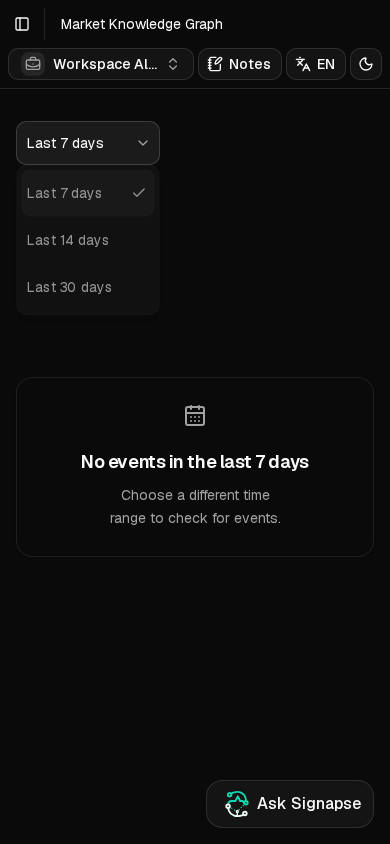
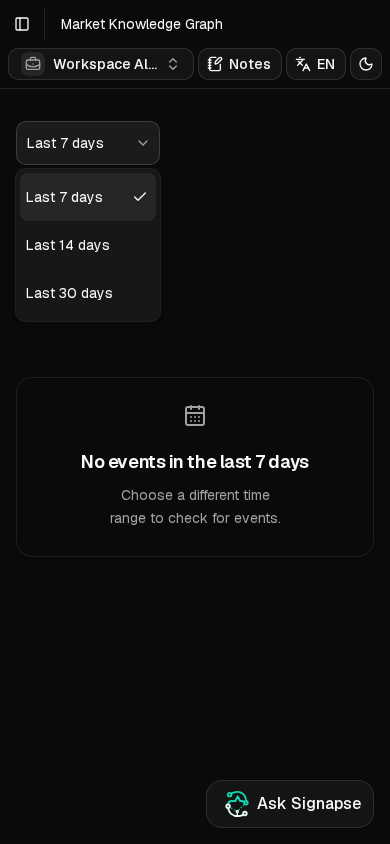
fix(SIGN-641): clear graph legend from fixed launcher

diff --git a/tests/e2e/graph-view-time-range.spec.ts b/tests/e2e/graph-view-time-range.spec.ts
@@ -25,6 +25,10 @@ async function setTheme(page: Page, theme: "Dark" | "Light") {
   await expect(page.locator("html")).toHaveClass(
     new RegExp(theme.toLowerCase())
   )
+  await page.keyboard.press("Escape")
+  await expect(
+    page.getByRole("menuitem", { name: theme, exact: true })
+  ).toBeHidden()
 }
 
 test("Graph View time range works across responsive, keyboard, touch and locale states", async ({
@@ -142,11 +146,18 @@ test("Graph View time range works across responsive, keyboard, touch and locale 
 
   await page.setViewportSize({ width: 390, height: 844 })
   await setTheme(page, "Light")
+  await page.screenshot({
+    path: "test-results/graph-time-range-empty-mobile-light-en-390x844.png",
+  })
   const triggerBox = await mobileRange.boundingBox()
   expect(triggerBox?.height).toBeGreaterThanOrEqual(44)
   await tap(page, mobileRange)
   const thirtyDayOption = page.getByRole("option", { name: "Last 30 days" })
   await expect(thirtyDayOption).toBeVisible()
+  await expect(page.locator('[data-slot="select-content"]')).toHaveCSS(
+    "opacity",
+    "1"
+  )
   const optionBox = await thirtyDayOption.boundingBox()
   expect(optionBox?.height).toBeGreaterThanOrEqual(44)
   await page.screenshot({
@@ -156,6 +167,10 @@ test("Graph View time range works across responsive, keyboard, touch and locale 
   await setTheme(page, "Dark")
   await tap(page, mobileRange)
   await expect(thirtyDayOption).toBeVisible()
+  await expect(page.locator('[data-slot="select-content"]')).toHaveCSS(
+    "opacity",
+    "1"
+  )
   await page.screenshot({
     path: "test-results/graph-time-range-empty-menu-mobile-dark-en-390x844.png",
   })

diff --git a/app/[lang]/(main)/graph-view/sigma-graph-view.tsx b/app/[lang]/(main)/graph-view/sigma-graph-view.tsx
@@ -1612,7 +1612,7 @@ export function SigmaGraphView({
       </p>
       <div
         data-graph-label-obstacle
-        className="pointer-events-none absolute inset-x-4 bottom-20 z-10 flex flex-col gap-3 min-[1440px]:right-20 min-[1440px]:bottom-4 min-[1440px]:flex-row min-[1440px]:items-end min-[1440px]:justify-between"
+        className="pointer-events-none absolute inset-x-4 bottom-20 z-10 flex flex-col gap-3 min-[1440px]:right-52 min-[1440px]:bottom-4 min-[1440px]:flex-row min-[1440px]:items-end min-[1440px]:justify-between"
       >
         <Badge variant="outline">
           <span data-testid="graph-demo-node-count">

diff --git a/docs/design/evidence/SIGN-641/README.md b/docs/design/evidence/SIGN-641/README.md
@@ -1,37 +1,42 @@
 # SIGN-641 Graph time-range render evidence
 
-These renders use the local P0 fixture. The fixture supplies synthetic Graph data and does not prove live API integration or QA acceptance.
-
-The application renders were captured from `c404d5b`. This follow-up changes only Playwright assertions and evidence files.
+These candidate renders use the local P0 fixture. Its Graph data is synthetic; it does not prove live API integration, real authorization, or QA acceptance. The UI renders and checks below were produced from the working tree for PR #144.
 
 ## Accepted design comparison
 
-The approved source is [SIGN-639](https://signapse-group.atlassian.net/browse/SIGN-639): attachment **10280**, `graph-time-filter-wide.png`, and attachment **10279**, `graph-time-filter-mobile-empty.png`. The wide comparison checks the selector beside the Graph title with data present. The mobile comparison checks the selected seven-day value and all three options above the empty state, including its calendar icon and border.
+The approved source is [SIGN-639](https://signapse-group.atlassian.net/browse/SIGN-639): attachment **10280**, `graph-time-filter-wide.png`, and attachment **10279**, `graph-time-filter-mobile-empty.png`. Both images were downloaded from Jira and inspected. The wide reference is 1520×1024 with the selector beside the Graph title and the sidebar expanded. The mobile reference is 390×844 with the three range choices above the empty state and the sidebar closed.
 
-| Source                    | Candidate render                                                                      | Viewport, state, theme and sidebar                       |
-| ------------------------- | ------------------------------------------------------------------------------------- | -------------------------------------------------------- |
-| SIGN-639 attachment 10280 | [Wide, dark, English](graph-time-range-wide-dark-en-1520x1024.png)                    | 1520×1024; populated Graph; expanded sidebar             |
-| SIGN-639 attachment 10280 | [Wide, light, Vietnamese](graph-time-range-wide-light-vi-1520x1024.png)               | 1520×1024; populated Graph; expanded sidebar             |
-| SIGN-639 attachment 10279 | [Mobile empty, dark, English](graph-time-range-empty-menu-mobile-dark-en-390x844.png) | 390×844; empty Graph; selector menu open; sidebar closed |
+| Source                    | Candidate render                                                                                   | Viewport, state, theme, sidebar                    |
+| ------------------------- | -------------------------------------------------------------------------------------------------- | -------------------------------------------------- |
+| SIGN-639 attachment 10280 | [Wide, dark, English](graph-time-range-wide-dark-en-1520x1024.png)                                 | 1520×1024; populated Graph; expanded sidebar       |
+| SIGN-639 attachment 10280 | [Wide, light, English](graph-time-range-wide-light-en-1520x1024.png)                               | 1520×1024; populated Graph; expanded sidebar       |
+| SIGN-639 attachment 10280 | [Wide, dark, Vietnamese](graph-time-range-wide-dark-vi-1520x1024.png)                              | 1520×1024; populated Graph; expanded sidebar       |
+| SIGN-639 attachment 10279 | [Mobile empty, light, English](graph-time-range-empty-mobile-light-en-390x844.png)                 | 390×844; selector closed at 7 days; sidebar closed |
+| SIGN-639 attachment 10279 | [Mobile empty, light, English, menu open](graph-time-range-empty-menu-mobile-light-en-390x844.png) | 390×844; all three choices visible; sidebar closed |
+| SIGN-639 attachment 10279 | [Mobile empty, dark, English, menu open](graph-time-range-empty-menu-mobile-dark-en-390x844.png)   | 390×844; all three choices visible; sidebar closed |
 
-The additional Vietnamese wide render is [dark mode, 1520×1024](graph-time-range-wide-dark-vi-1520x1024.png). The selector and selected seven-day value remain visible in the dark mobile empty state. The light mobile empty render is still pending; an older capture was excluded because it predates the candidate commit and does not show the current card/icon treatment.
+The selector stays beside the Graph title on wide screens and above the empty-state card on mobile. The bottom legend keeps its grouping and leaves room for the fixed Ask Signapse launcher. The current P0 run also checked 360, 390, 760×512 (effective 200% zoom), 767, 768, 1024, 1439, 1440 and 1520 CSS-pixel widths for reflow and page overflow.
+
+The [previous wide light Vietnamese render](graph-time-range-wide-light-vi-1520x1024.png) is retained as historical evidence from candidate `72bb7fc`; it predates the legend inset adjustment and is not used for the current comparison.
 
 ## Producer contract
 
-Fetched `https://dev-api.signapse.cloud/v3/api-docs` for dev at 2026-11-18 06:28 UTC. `x-build-revision` was `7d666dead7544a46acc44a28326f12c62f3b3bf6`. `GET /graph-view` accepts optional integer `days` in `[7, 14, 30]`, defaults to 7, and returns an empty `nodes`/`edges` graph as HTTP 200. The operation documents separate 400 workspace/range, 401 authentication, 403 Graph permission, and 500/503 service responses. The consumer action sends the selected range explicitly and validates the returned Graph schema.
+Fetched `https://dev-api.signapse.cloud/v3/api-docs` for dev at `2026-11-20T13:43:48.292Z`; `x-build-revision` was `765059683b3b265ce101823765d9cc5f9495e0f4`. `GET /graph-view` accepts optional integer `days` with default 7 and enum `[7, 14, 30]`. HTTP 200 with empty `nodes` and `edges` is a successful empty graph. The operation declares 400, 401, 403, 409, 500 and 503 responses. Its 409 response has no description or schema; the FE uses the generic load-error state unless the workspace identity check identifies a workspace change.
+
+The OpenAPI descriptions say `GraphNode.secondaryLabel`, fields in `GraphNodeMetadata`, and `GraphEdge.weight`, `confidence` and `note` can be null, but those schemas do not mark the properties nullable. The FE consumer schema follows the described null behavior. This producer schema discrepancy is included in the PR handoff for SIGN-640 follow-up; the local structural guard does not validate nullability semantics.
 
 ## Local verification
 
 - `pnpm exec vitest run tests/api/graph-view-action.test.ts tests/components/graph-view-panel.component.test.tsx tests/core/graph-view-page.test.ts` — 3 files, 19 tests passed.
-- `API_BASE_URL=https://dev-api.signapse.cloud pnpm test:contract -- --live --scope 'GET /graph-view'` — live OpenAPI structural check passed for 1 operation at 2026-11-18 06:30 UTC.
-- Focused ESLint and Prettier checks for the two changed Playwright specs passed.
-- The selected P0 scope is the time-range spec plus Graph workspace, empty/permission/error, missing-workspace and stale-workspace-response cases in `tests/e2e/graph-view-sigma-workspace.spec.ts`. It covers the default/reload, 7/14/30 requests, keyboard focus/selection, touch selection, both locales, no-workspace, Graph 403, empty watchlist vs. no Events, watchlist permission denial, errors, response order and the required responsive widths.
+- `API_BASE_URL=https://dev-api.signapse.cloud pnpm test:contract -- --live --scope 'GET /graph-view'` — live OpenAPI structural check passed for 1 operation at `2026-11-20T13:46:05Z`.
+- Focused ESLint and Prettier checks passed for the changed Graph component and time-range P0 spec.
+- Selected P0 scope: the time-range spec plus workspace, permission, empty, load-error, missing-workspace and stale-workspace-response cases in `tests/e2e/graph-view-sigma-workspace.spec.ts`. It covers default/reload, 7/14/30 selection, request query, keyboard focus/selection, touch selection, English/Vietnamese, responsive layout and the documented Graph states.
 - Exact P0 command:
 
   ```sh
-  /opt/apps/symphony/runtime/run-fe-browser "$PWD" tests/e2e/graph-view-time-range.spec.ts tests/e2e/graph-view-sigma-workspace.spec.ts --grep 'Graph View time range works across responsive|Sigma workspace graph keeps its watchlist context|Sigma workspace graph preserves graph permission|live Graph View distinguishes empty watchlist from empty graph|live Graph View keeps permission, transport and schema failures distinct|Graph View asks for a workspace when none is selected|Graph View drops a delayed response from the previous workspace|Graph View clears the prior selection after switching workspaces'
+  /opt/apps/symphony/runtime/run-fe-browser "$PWD" tests/e2e/graph-view-time-range.spec.ts tests/e2e/graph-view-sigma-workspace.spec.ts --grep 'Graph View time range works across responsive|Sigma workspace graph keeps its watchlist context|Sigma workspace graph preserves graph permission|live Graph View distinguishes empty watchlist from empty graph|live Graph View keeps permission, transport and schema failures distinct|Graph View asks for a workspace when none is selected|Graph View drops a delayed response from the previous workspace|Graph View clears the prior selection after switching workspaces' --retries=0
   ```
 
-- The initial P0 attempt confirmed the selector at 1520/1440px, then timed out because the workspace spec searched for the obsolete Vietnamese launcher name `Mở trợ lý AI`; the current dictionary and rendered page use `Ask Signapse`. Both stale test assertions are now corrected. The host wrapper repeatedly returned `resource_busy` after its 30-second backoff because its interrupted-session fence matches the still-active worker session. The corrected P0 run must be rerun in a fresh worker session. This evidence does not claim a P0 pass.
+- The final selected P0 run passed **16/16**. The first run exposed a real overlap between the wide bottom legend and the fixed launcher at 1440px and 1520px; the legend inset was adjusted, and both widths passed on rerun. The menu screenshot waits for the open animation to finish so the dark render reflects the usable state.
 
-The responsive checks use the local [Responsive Contract](../../DESIGN.md#responsive-contract), which supplies the execution rules while the Planning reference URL is unavailable. No live Graph feature test was run; QA/coordinator owns live UI, authorization and FE/BE acceptance on dev.
+No live Graph feature test was run. QA/coordinator owns live UI, permission and FE/BE acceptance on dev under SIGN-643.
